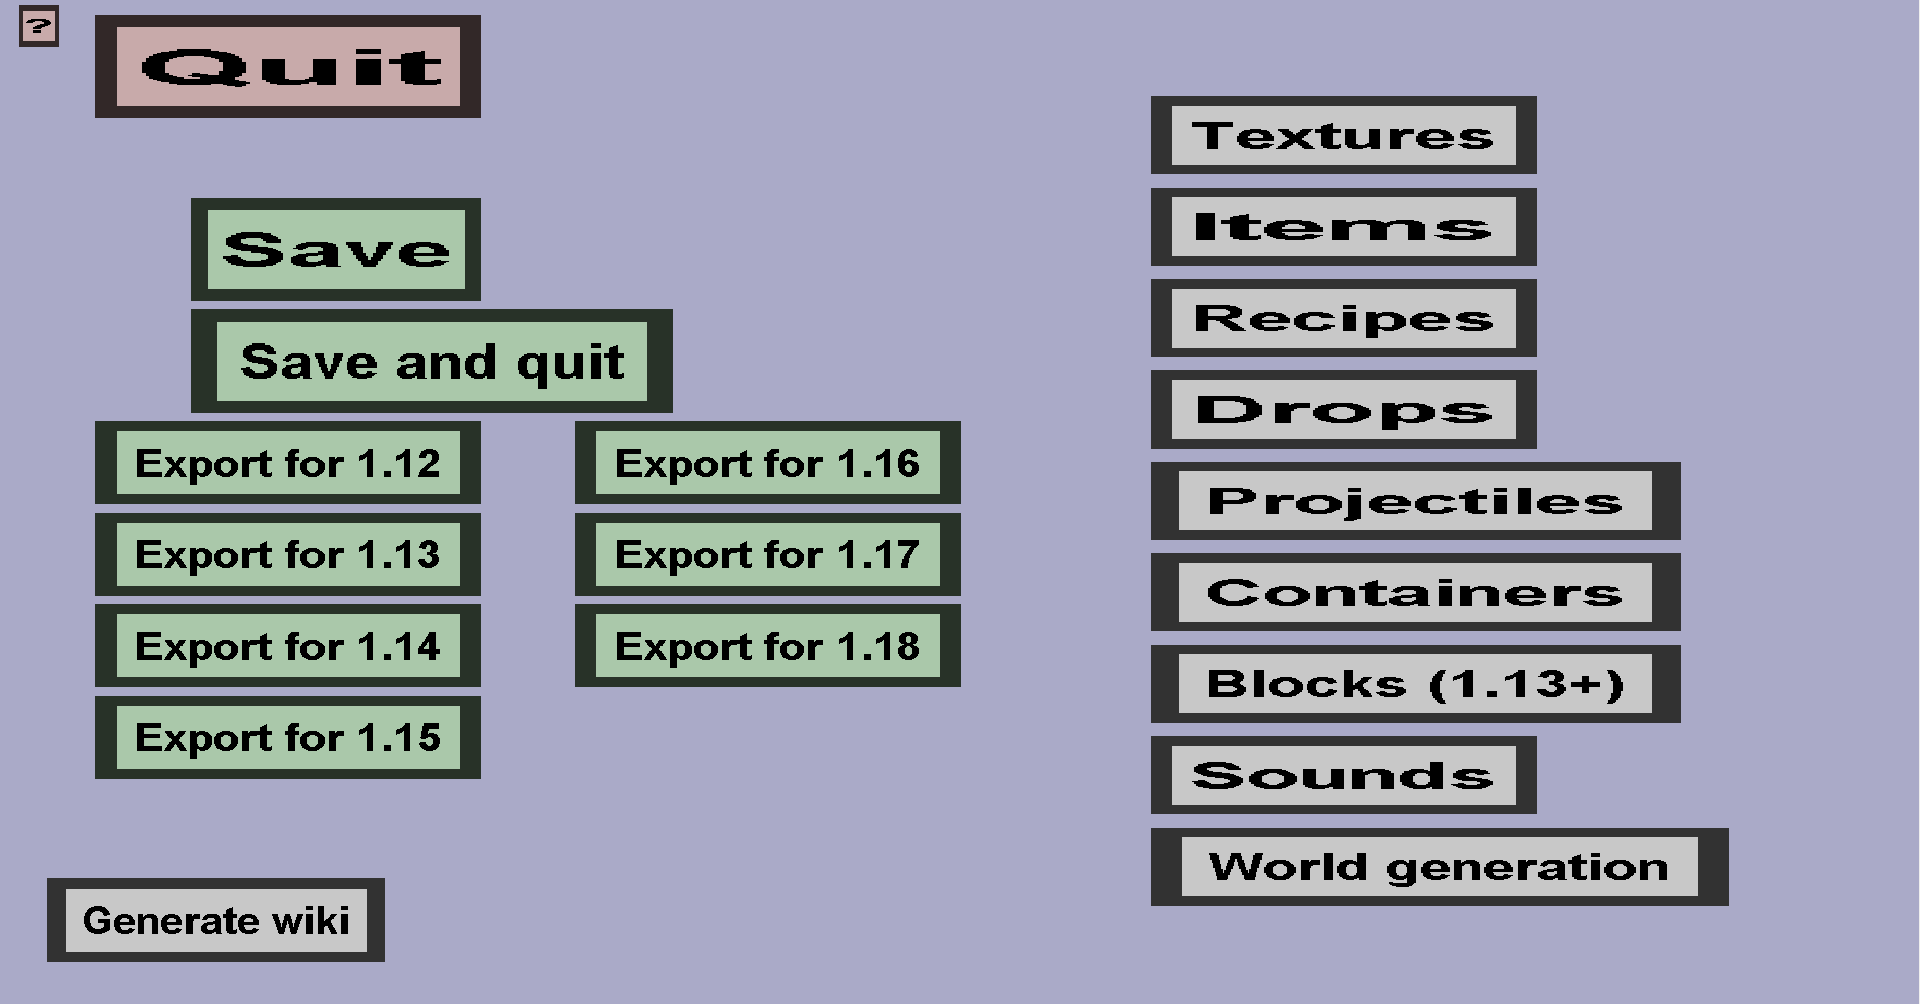
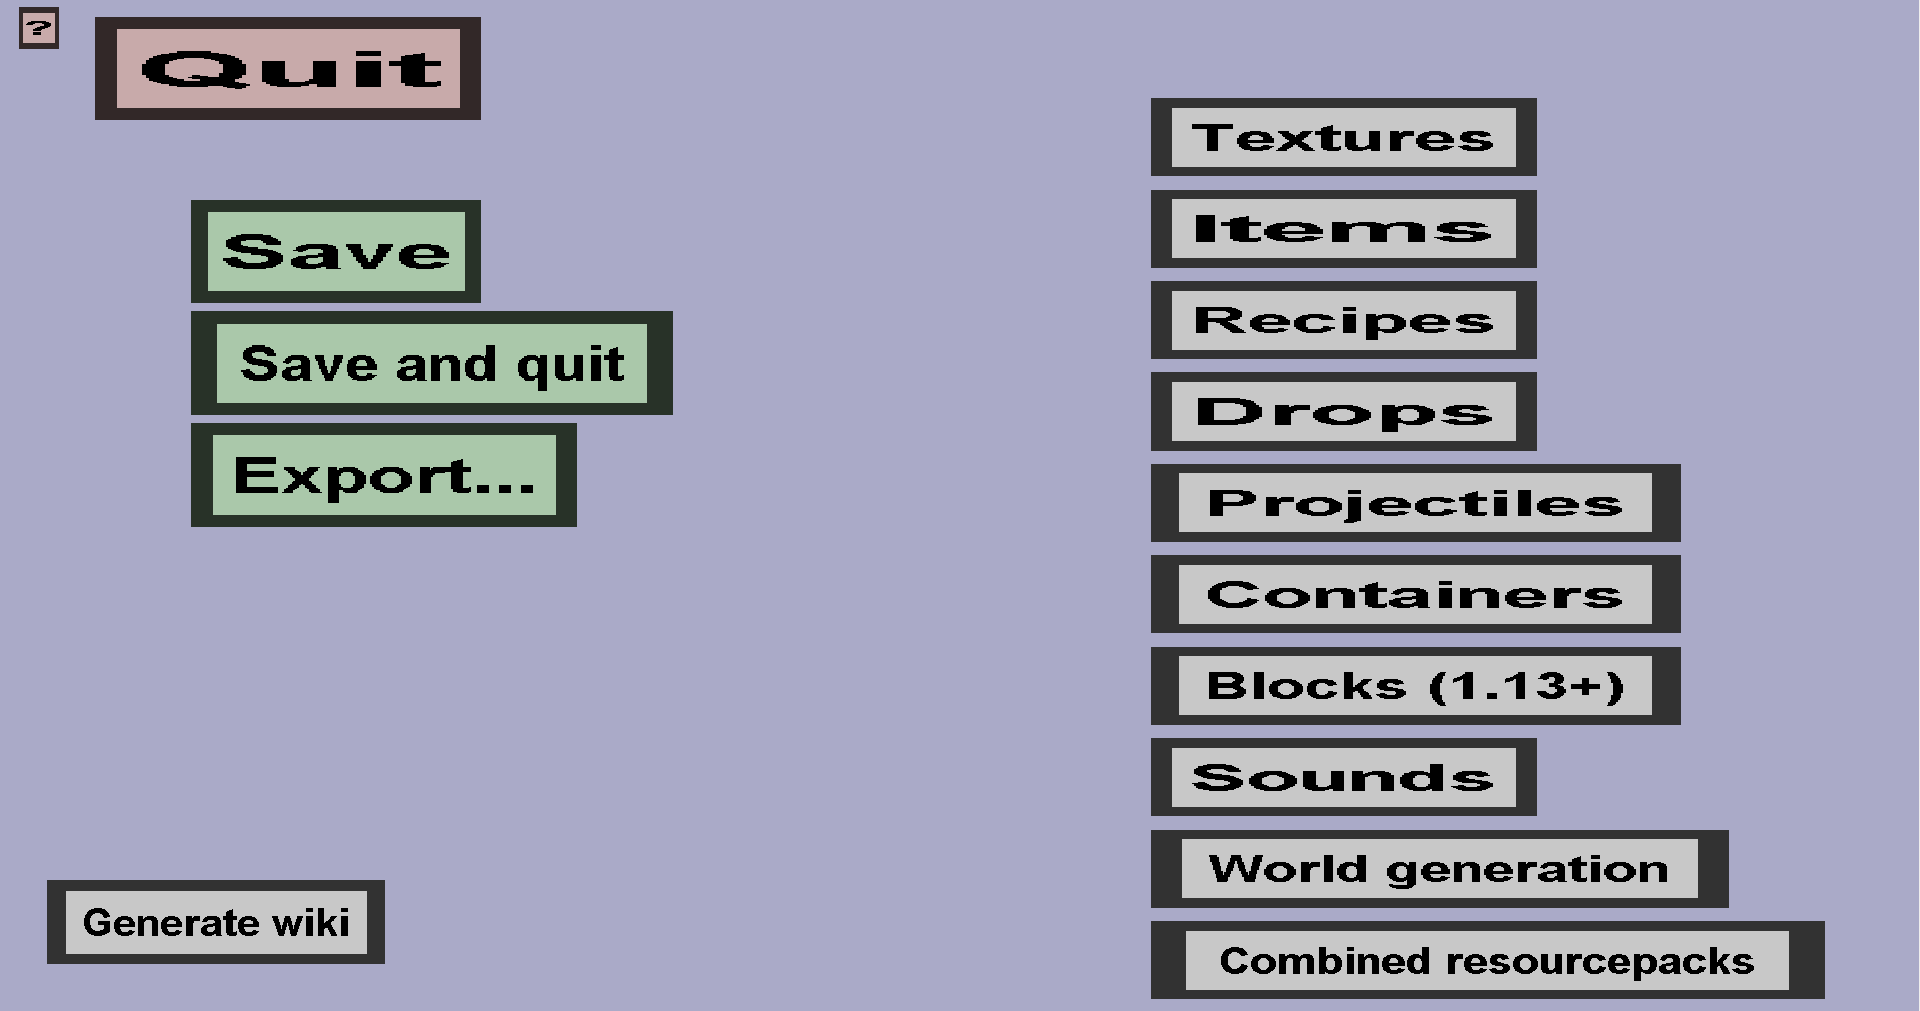
Document the combine resourcepacks feature of custom items 12

diff --git a/custom items/editor documentation/edit menu/combined resourcepacks/edit.html b/custom items/editor documentation/edit menu/combined resourcepacks/edit.html
@@ -1,0 +1,59 @@
+<!DOCTYPE html>
+<html>
+    <head>
+        <meta charset="UTF-8" />
+        <title>Combined resourcepack edit menu</title>
+    </head>
+    <body>
+        <p>
+            The combined resourcepack edit menu can be used to add or modify <i>combined resourcepacks</i>. Combined
+            resourcepacks are other (typically third-party) resourcepacks that will automatically be combined
+            with the resourcepack generated by the Editor. This is convenient because minecraft servers can only
+            have 1 server resource pack. A couple of example usecases are:
+        </p>
+        <ul>
+            <li>
+                Combine with a simple decorative resourcepack that changes the textures of vanilla minecraft items.
+                This will result in a resourcepack that adds custom items <b>and</b> retextures vanilla items.
+            </li>
+            <li>
+                Combine with a resourcepack required by another plug-in. This makes it possible to use multiple
+                plug-ins that add custom items. This can work well with specialized custom item plug-ins that
+                only touch a couple of item models, but is unlikely to work well alongside other general-purpose
+                custom item plug-ins.
+            </li>
+            <li>
+                Combine with a (self-made) resourcepack that adds functionality to this plug-in that is not yet
+                supported by this plug-in. Note: this is for advanced users only and can easily break the
+                resourcepack. (In the past, advanced users needed to manually alter the exported resourcepack
+                every single time they exported it.)
+            </li>
+        </ul>
+        This menu should look like this:<br>
+        <img src="edit.png" width="50%" />
+        <h3>Name</h3>
+        <p>
+            When you have multiple combined resourcepacks, the <i>Name</i>s are very convenient to distinguish
+            them from each other. Other than that, they serve no purpose at the moment.
+        </p>
+        <h3>Priority</h3>
+        <p>
+            The <i>Priority</i> determines what happens when the combined resourcepack <i>conflicts</i> with the
+            Editor resourcepack or with another combined resourcepack. A <i>conflict</i> occurs when two
+            resourcepacks contain the same file (e.g. multiple resourcepacks contain the file <b>diamond_sword.json</b>).
+            When a conflict occurs, the file of the resourcepack with the <b>highest</b> priority will be used,
+            and the other conflicting files will be ignored. The Editor resourcepack has a priority of 0 and all
+            resourcepacks must have a distinct priority.
+        </p>
+        <h4>Recommendation</h4>
+        <p>
+            Whenever possible, use a priority below 0. When you use a priority above zero, the combined resourcepack
+            can overwrite files of the Editor resourcepack, which can easily break the custom texture system. Priorities
+            above 0 are mostly useful for advanced users that really know what they are doing.
+        </p>
+        <h3>Choose file...</h3>
+        <p>
+            Click this button to select the actual resourcepack that is to be combined.
+        </p>
+    </body>
+</html>

diff --git a/custom items/editor documentation/edit menu/index.html b/custom items/editor documentation/edit menu/index.html
@@ -20,13 +20,13 @@
             once the saving is finished.
             The 'Save and quit' button will do everything the 'Save' button does, but also go back to the 
             <a href="../main menu/index.html">main menu</a>.
-            Then there are several Export buttons: one for each minecraft version supported by this plug-in.
-            Clicking on any of the Export buttons will do everything the 'Save and quit' button does, but <a href="../../exporting.html">more</a>.
+            The 'Export' button will save and <i>export</i> your item set, which is needed to actually run it on
+            a server.
         </p>
         <p>
             Then there are the buttons for editing the item set. 
-            Currently, these are 'Textures', 'Items', 'Recipes', 'Drops', 'Projectiles', 'Containers', 'Blocks', 'Sounds',
-            and 'World generation'.
+            Currently, these are 'Textures', 'Items', 'Recipes', 'Drops', 'Projectiles', 'Containers', 'Blocks', 'Sounds', 
+            'World generation', and 'Combined resourcepacks'.
             Each button will bring you to a submenu dedicated to those objects in the item set.
             Those submenus are:
             <ul>
@@ -39,6 +39,7 @@
                 <li><a href="blocks/overview.html">Block overview</a> (only for minecraft 1.13.x and later)</li>
                 <li><a href="sound/overview.html">Sound type overview</a></li>
                 <li><a href="worldgen/index.html">World generation portal</a></li>
+                <li><a href="combined resourcepacks/overview.html">Combined resourcepacks overview</a></li>
             </ul>
         </p>
     </body>

diff --git a/custom items/editor documentation/edit menu/combined resourcepacks/overview.html b/custom items/editor documentation/edit menu/combined resourcepacks/overview.html
@@ -1,0 +1,14 @@
+<!DOCTYPE html>
+<html>
+    <head>
+        <meta charset="UTF-8" />
+        <title>Combined resourcepacks overview</title>
+    </head>
+    <body>
+        <p>
+            The combined resourcepacks overview lists all your <a href="edit.html">combined resourcepacks</a>.
+            It should look like this:
+        </p>
+        <img src="overview.png" width="50%" />
+    </body>
+</html>
